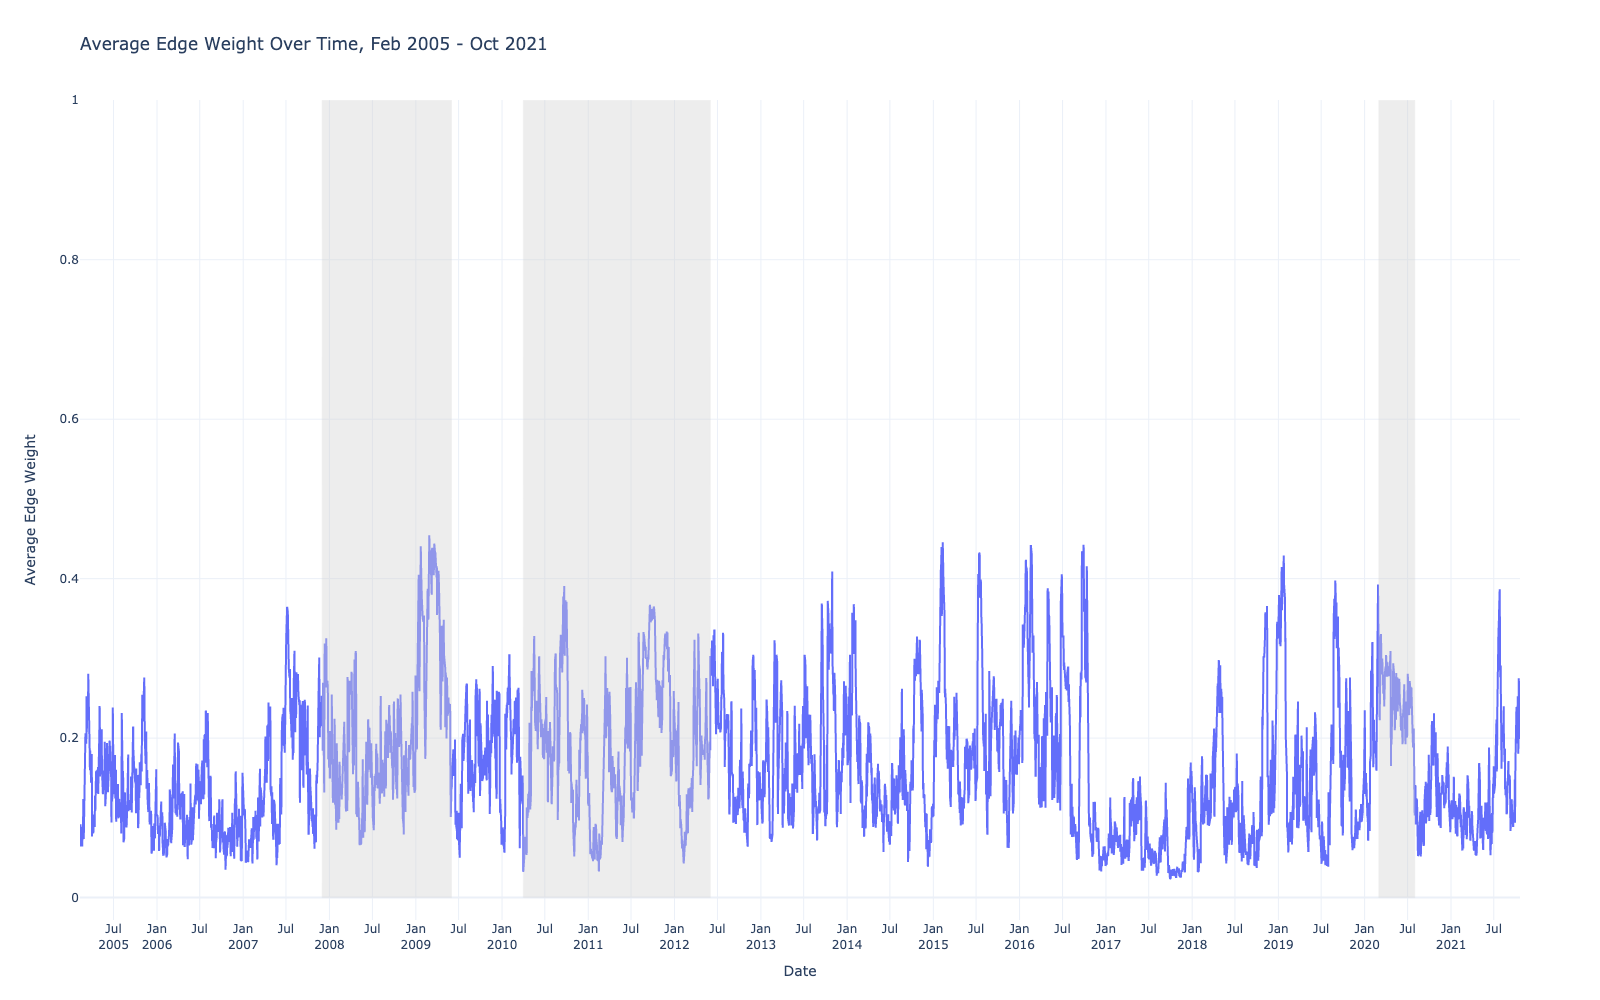
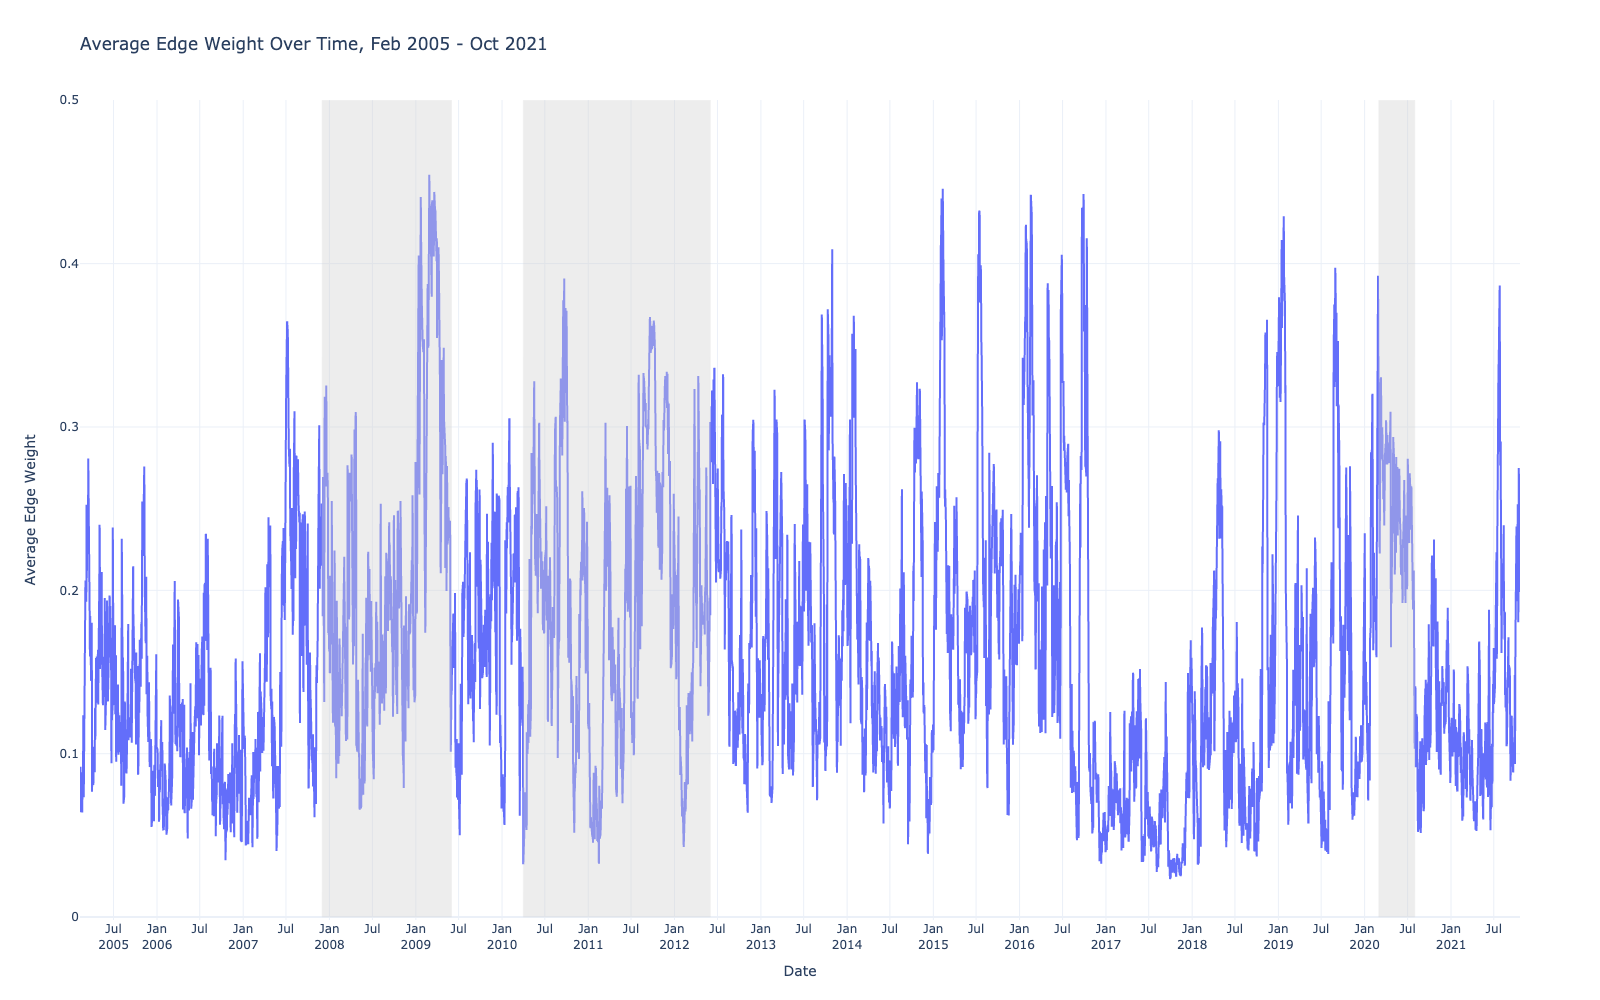
tweak y axis on average edge weight plots

Changed region(s): [[0.0312, 0.186, 0.9688, 0.868]]

diff --git a/midterm/plots.py b/midterm/plots.py
@@ -329,7 +329,7 @@ def avg_weight(show: bool = False, gtype: str = "spearman_25"):
         x0="2007-12-01",
         y0=0,
         x1="2009-06-01",
-        y1=1,
+        y1=0.5,
         line=dict(color="LightGray", width=0.5),
         fillcolor="LightGray",
         opacity=0.4,
@@ -339,7 +339,7 @@ def avg_weight(show: bool = False, gtype: str = "spearman_25"):
         x0="2010-04-01",
         y0=0,
         x1="2012-06-01",
-        y1=1,
+        y1=0.5,
         line=dict(color="LightGray", width=0.5),
         fillcolor="LightGray",
         opacity=0.4,
@@ -349,7 +349,7 @@ def avg_weight(show: bool = False, gtype: str = "spearman_25"):
         x0="2020-03-01",
         y0=0,
         x1="2020-08-01",
-        y1=1,
+        y1=0.5,
         line=dict(color="LightGray", width=0.5),
         fillcolor="LightGray",
         opacity=0.4,
